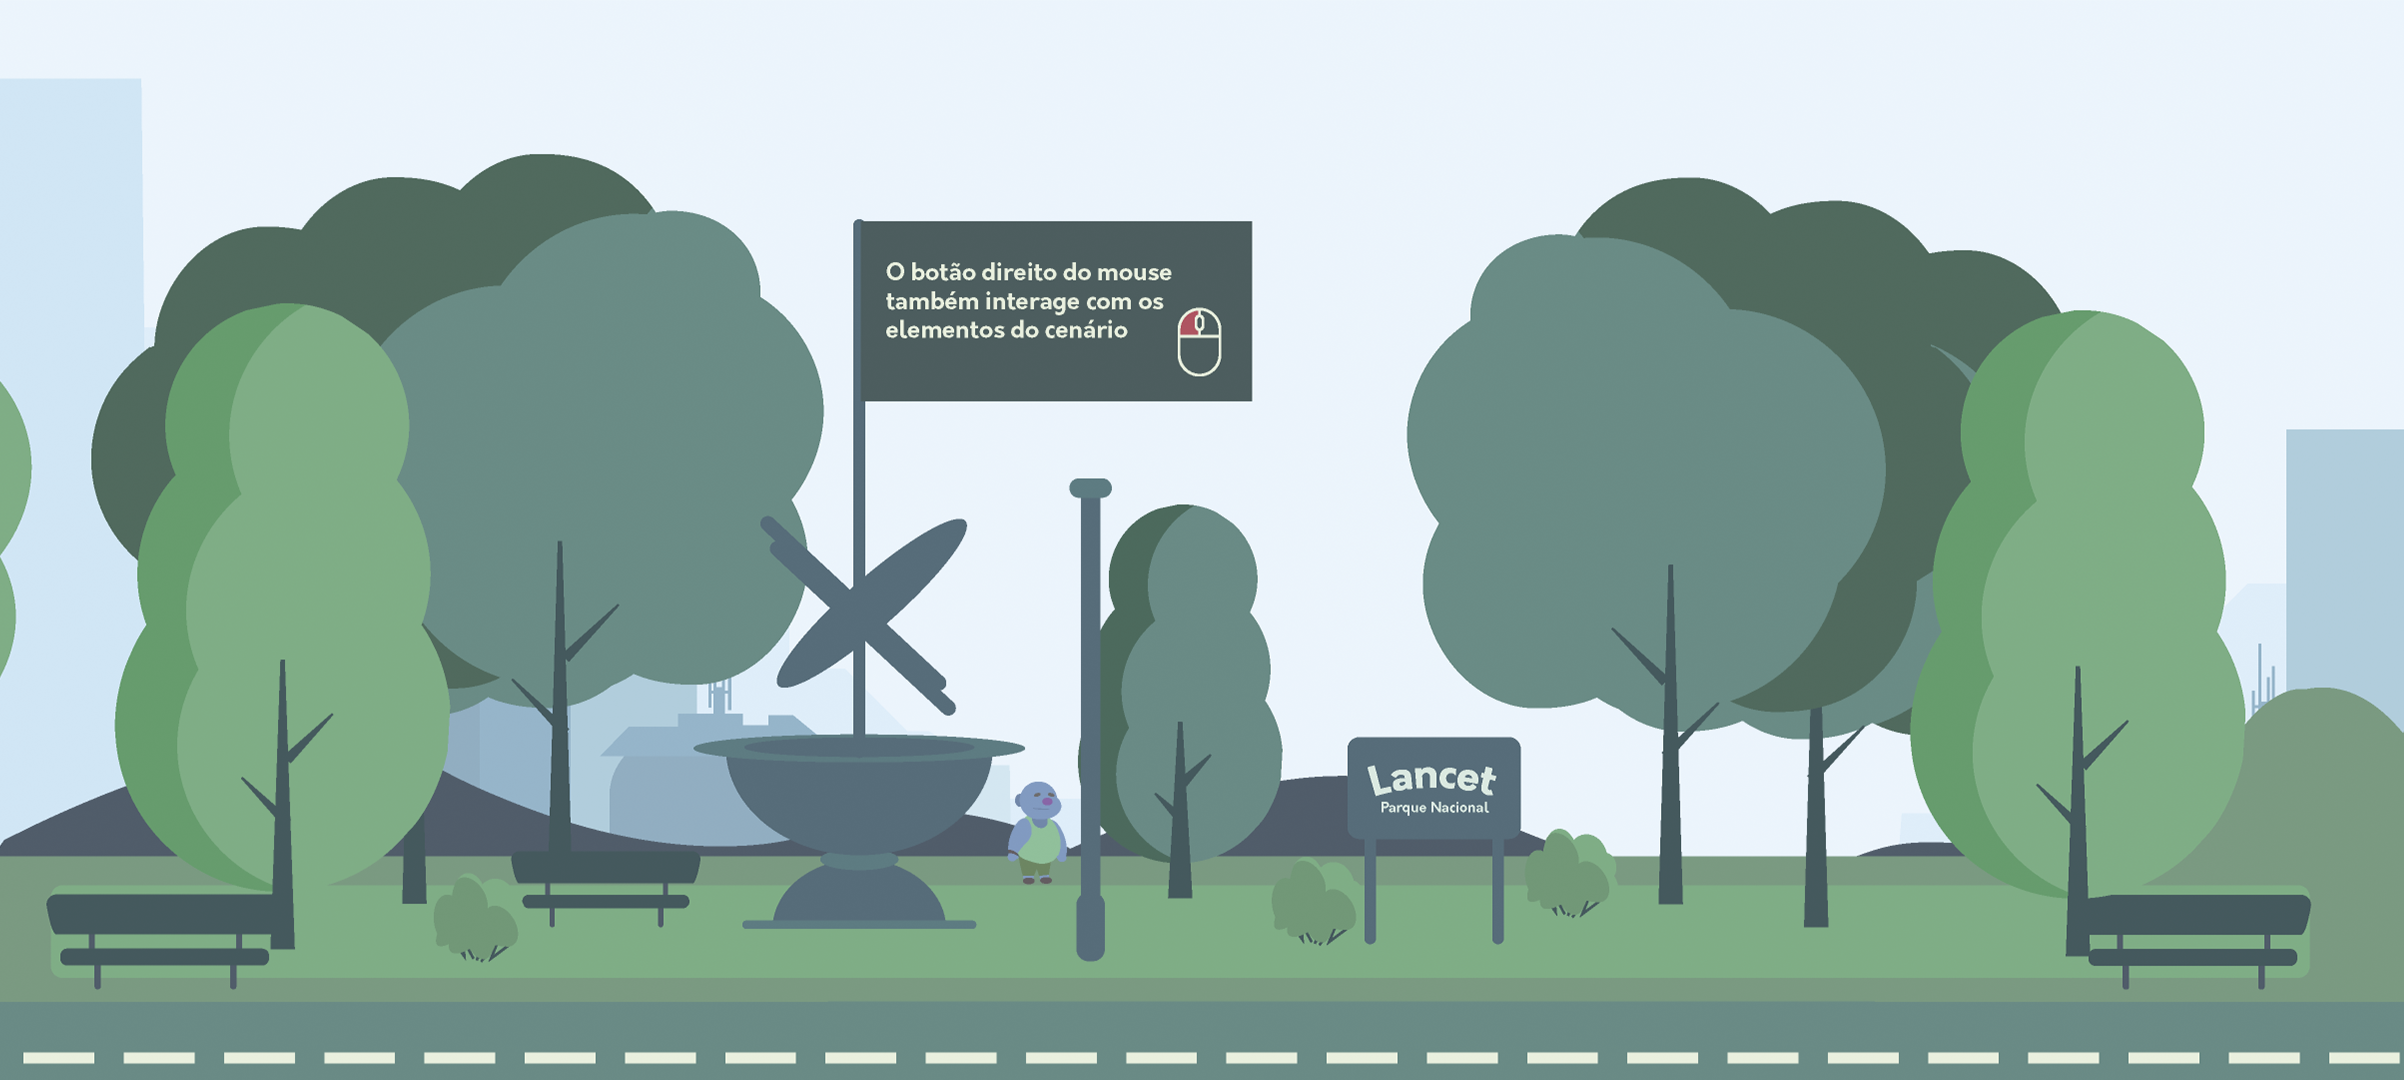
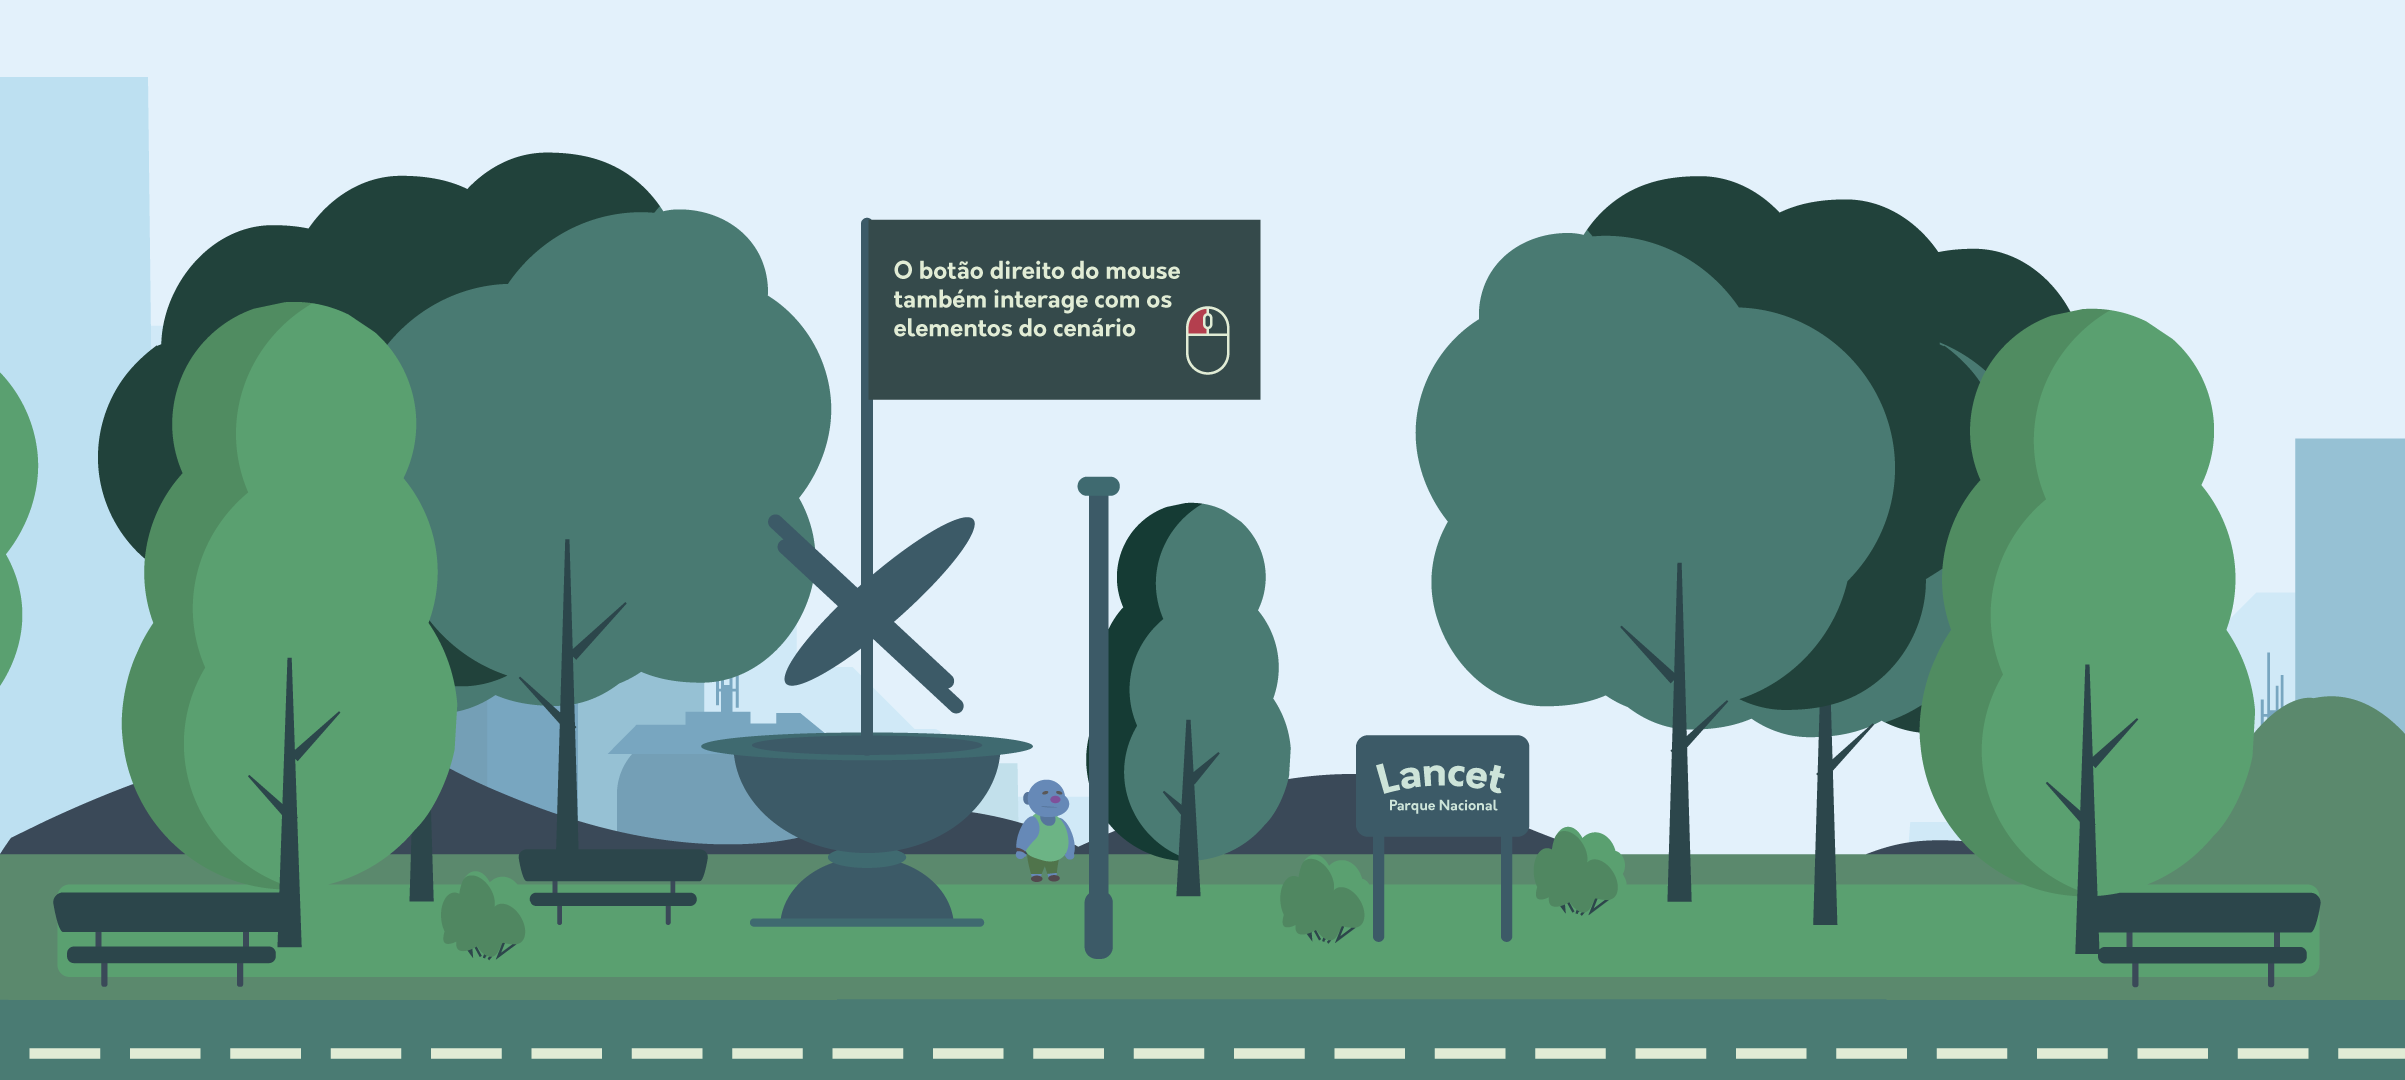
atualizacao do bg e do conteudo novo

diff --git a/style/style.css b/style/style.css
@@ -187,7 +187,7 @@ body {
     position: absolute;
     left: 1794px;
     top: calc(100vh - 183px);
-    height: 629px;
+    height: 102px;
     width: 37px;
     z-index: 1;
     background-size: 100% !important;
@@ -290,8 +290,8 @@ body {
     width: 300px;
     position: absolute;
     height: auto;
-    top: calc(100vh - 258px);
-    left: 2869px;
+    top: calc(100vh - 256px);
+    left: 2785px;
 
 }
 .importante2{
@@ -307,10 +307,10 @@ body {
 /*OUTDOORS1*/
 .outdoor11 {
     position: absolute;
-    left: -3226px;
-    top: calc(100vh - 515px);
+    left: -3222px;
+    top: calc(100vh - 405px);
     width: auto;
-    height: 467px;
+    height: 358px;
 }
 
 
@@ -319,8 +319,8 @@ body {
 /*TEXTOS SERRILHADOS*/
 .texto1{
     position: absolute;
-    height: 427px;
-    left: -2380px;
+    height: 409px;
+    left: -2379px;
     top: calc(100vh - 539px);
     width: 390px;
     background-repeat: no-repeat;
@@ -329,7 +329,7 @@ body {
 .texto2 {
     position: absolute;
     height: 413px;
-    left: -1947px;
+    left: -1944px;
     top: calc(100vh - 539px);
     width: 390px;
     background-repeat: no-repeat;
@@ -338,7 +338,7 @@ body {
 .texto3 {
     position: absolute;
     height: 413px;
-    left: -1529px;
+    left: -1616px;
     top: calc(100vh - 539px);
     width: 403px;
     background-repeat: no-repeat;
@@ -347,7 +347,7 @@ body {
 .texto4 {
     position: absolute;
     height: 409px;
-    left: -1118px;
+    left: -1207px;
     top: calc(100vh - 539px);
     width: 403px;
     background-repeat: no-repeat;

diff --git a/js/main-info.js b/js/main-info.js
@@ -208,7 +208,7 @@ function animeManu(classe, numerador, denominador){
   animeTexto(target3,3,4,5.5)
   animeTexto(target4,5.5,4,7.5);
   animeTexto(target5,7.5,4,10.5);
-  mudaOutdoor2(target6, 10.5, 4,13.5);
+  mudaOutdoor2(target6, 11, 4,13.5);
   animeHolograma(target7,9,4,12);
   animeHolograma(target8, 13, 4,15);
   animeHolograma(target9, 15.5, 4,18);
